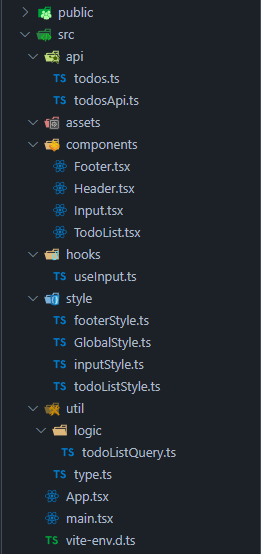
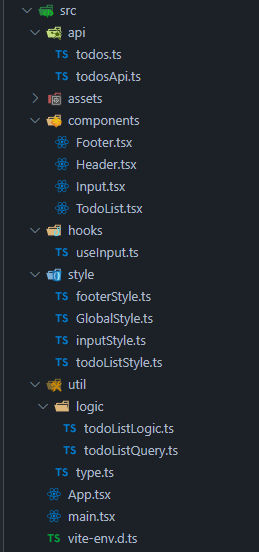
[docs] 리드미 작성

diff --git a/README.md b/README.md
@@ -20,4 +20,24 @@ mutation의 경우에도 타입을 지정해주어야 하고 뮤테이션의 경
 
 ![alt 파일구조 사진입니다.](src/assets/파일구조.PNG)
 
-위의 사진처럼 구성하여 파일을 나누었고 util폴더안에 logic이라는 폴더를 만들어서 query문은 따로 빼서 작성을 해 놓았습니다.
+위의 사진처럼 구성하여 파일을 나누었고 util폴더안에 logic이라는 폴더를 만들어서 query및 todoList Logic을 따로 빼놔서 작성 해 놨습니다.
+
+## 시작 가이드
+
+env 파일을 만드셔서
+
+```env
+VITE_API_URL=http://localhost:4000
+```
+
+작성해주시고 해주시면 감사하겠습니다.
+
+```bash
+git clone https://github.com/DecidedCard/typescript-todolist.git .
+yarn
+yarn json
+yarn dev
+```
+
+yarn json의 경우 포트번호 4000번으로 json-server가 실행되게 설정되어 있습니다.
+클론하시고 위의 env파일을 만들어 주신 이후에 yarn json 및 yarn dev를 해주시기 바랍니다.
